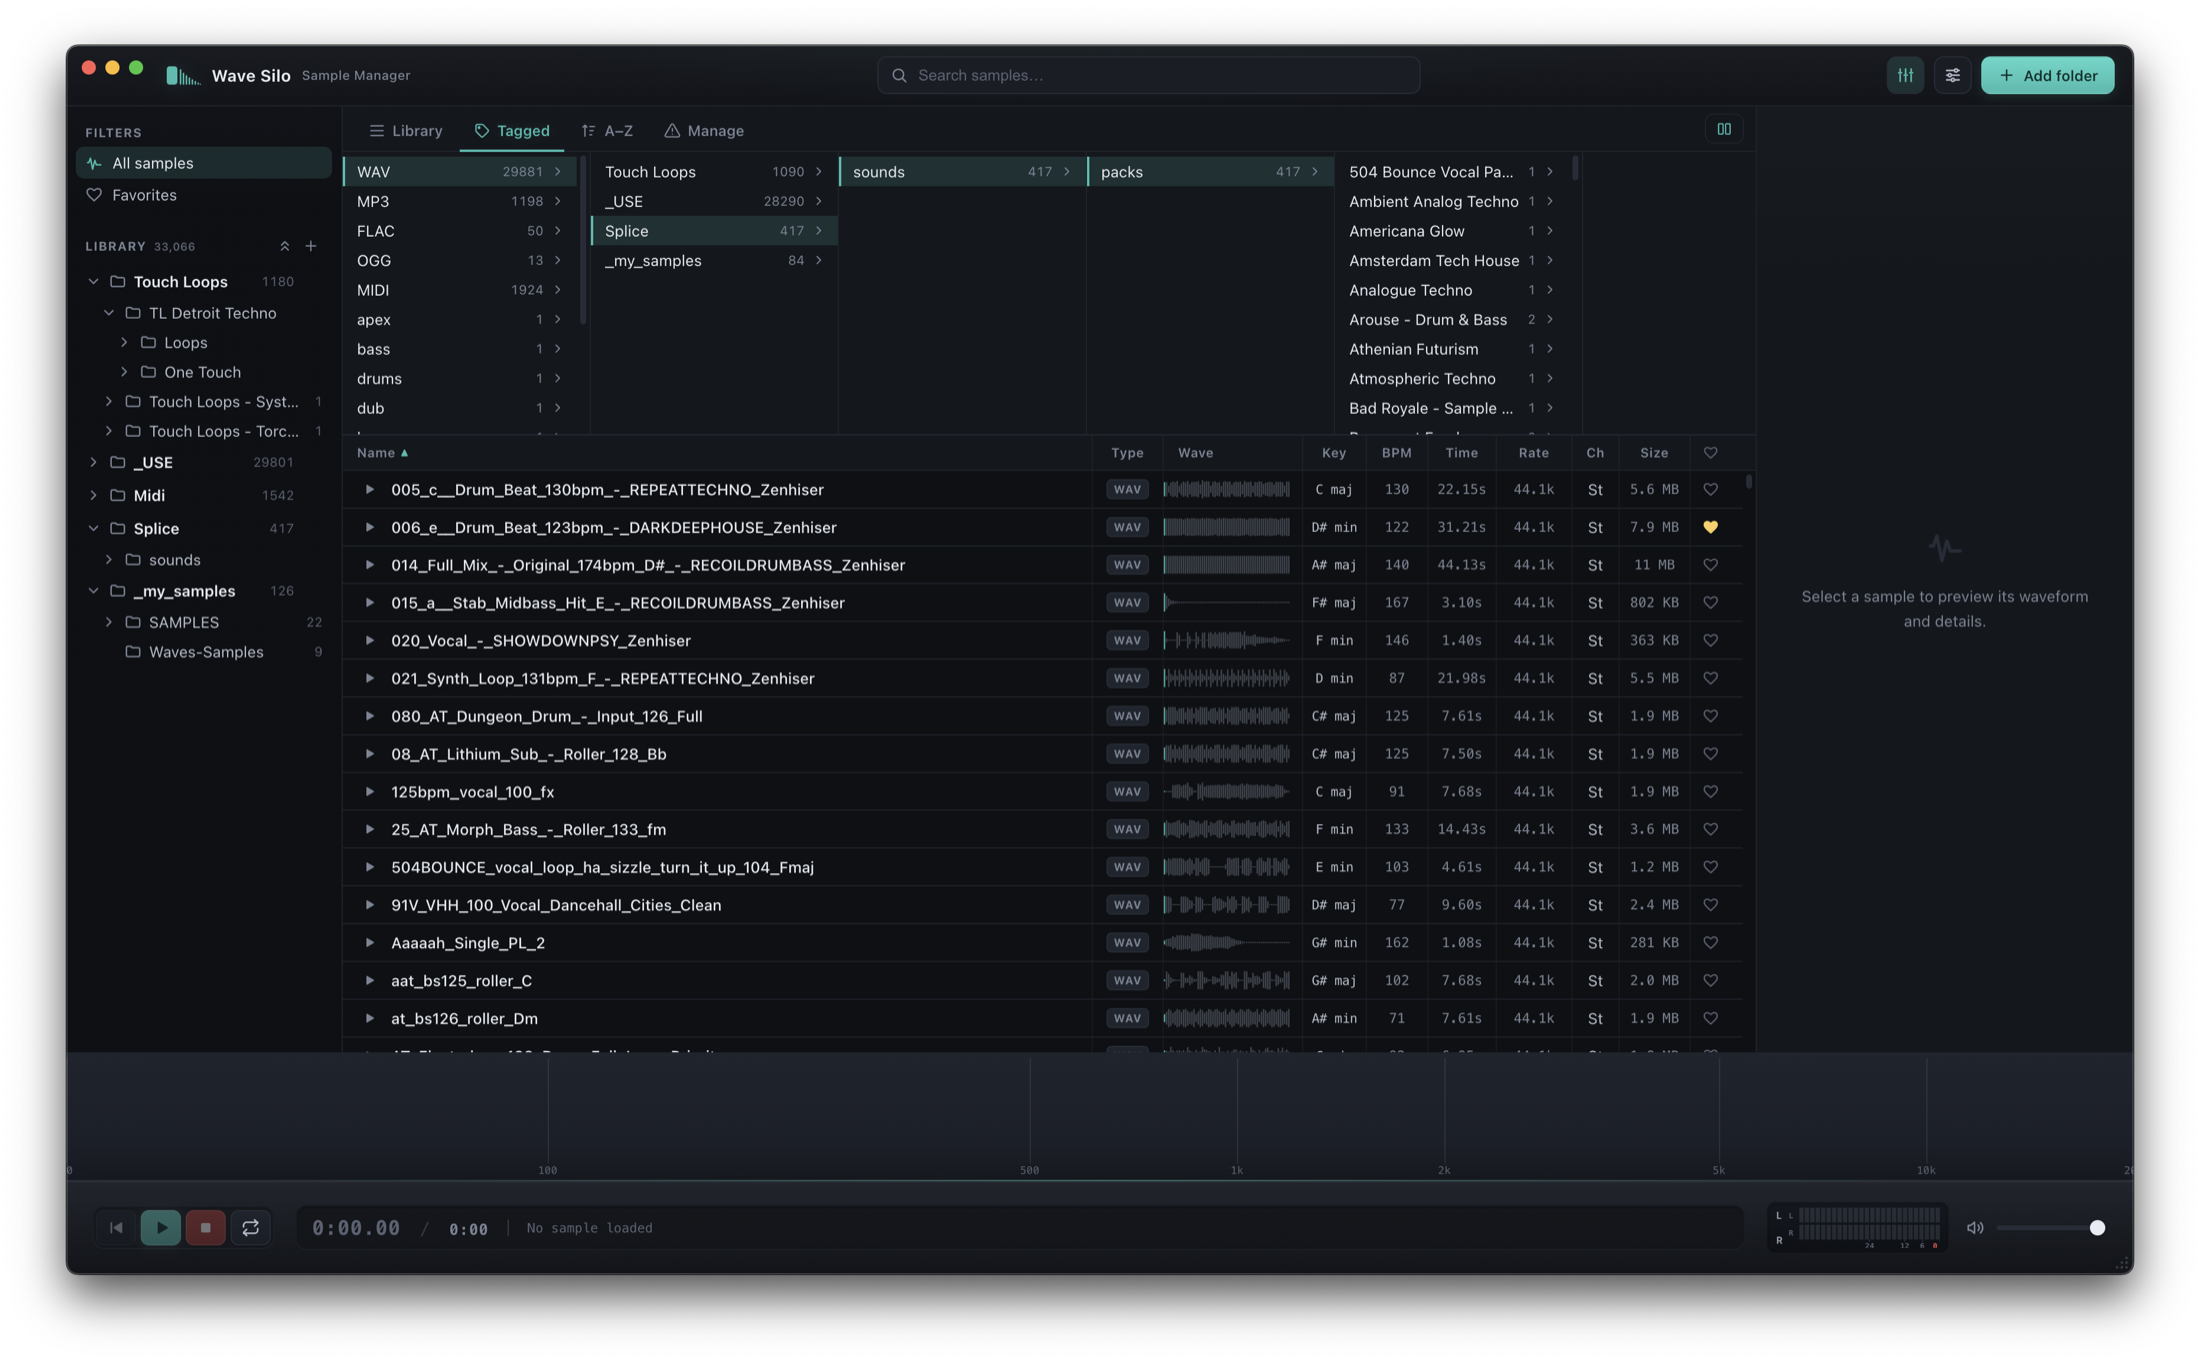
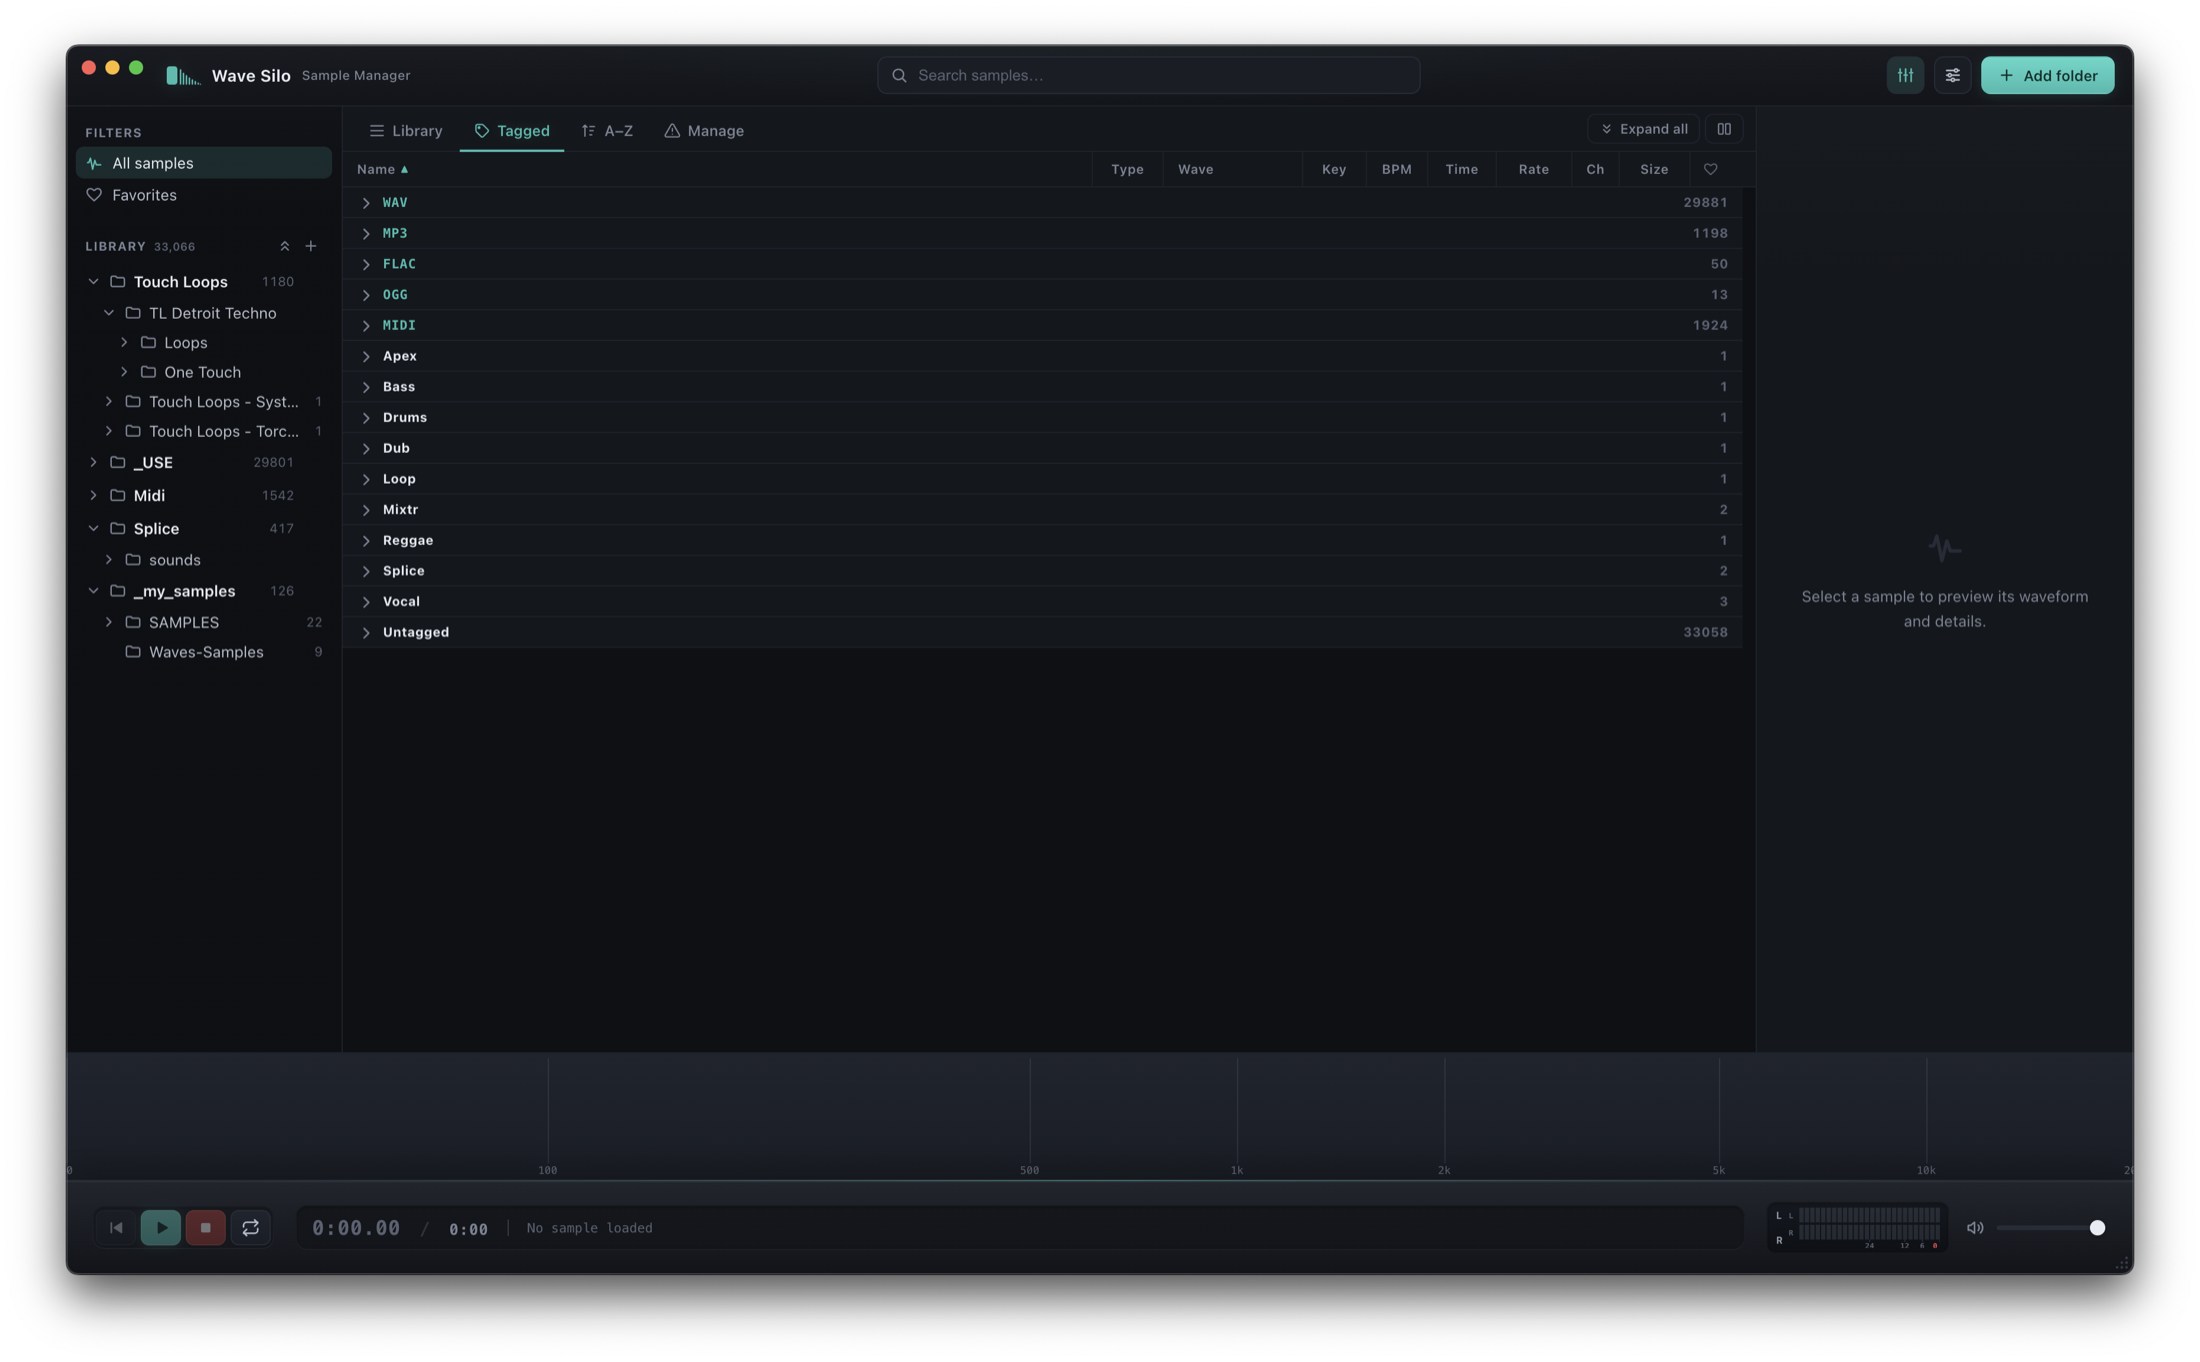
Site: real screenshots — column browser hero, tagged list, A-Z for audio engine

diff --git a/src/App.tsx b/src/App.tsx
@@ -1,6 +1,7 @@
 import { useEffect, useState } from 'react'
 import './App.css'
 import shotDark from './assets/screenshot-dark.png'
+import shotHero from './assets/shot-hero.png'
 import shotLight from './assets/screenshot.png'
 import shotTagged from './assets/shot-tagged.png'
 import shotRecovery from './assets/shot-recovery.png'
@@ -153,7 +154,7 @@ export default function App() {
           <p className="sub">macOS · Windows · Linux — unsigned beta, free core forever.</p>
 
           <div className="shot hero-shot">
-            <img src={shotDark} alt="Wave Silo — sample library with waveforms, BPM and key" />
+            <img src={shotHero} alt="Wave Silo — Tagged column browser drilling tags into folders, with waveforms, BPM and key" />
           </div>
         </section>
 
